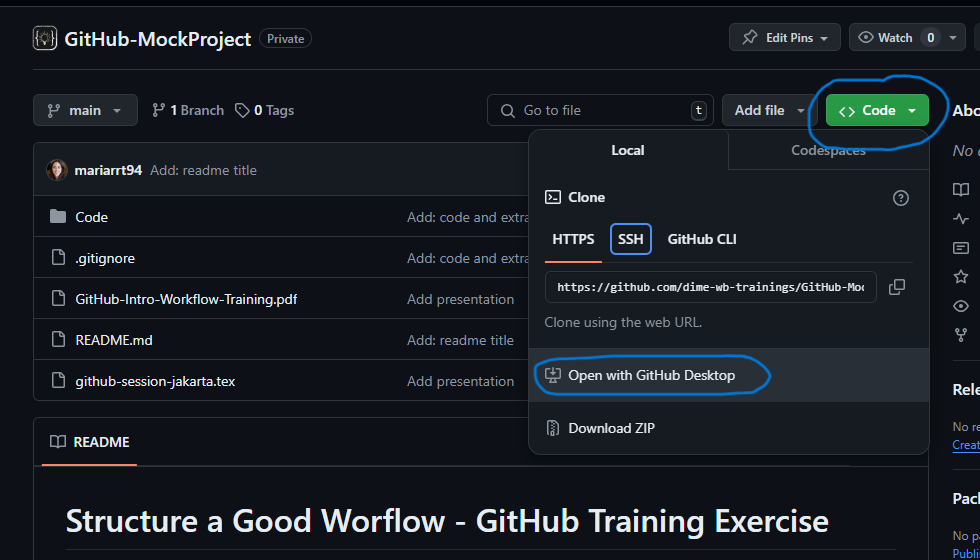
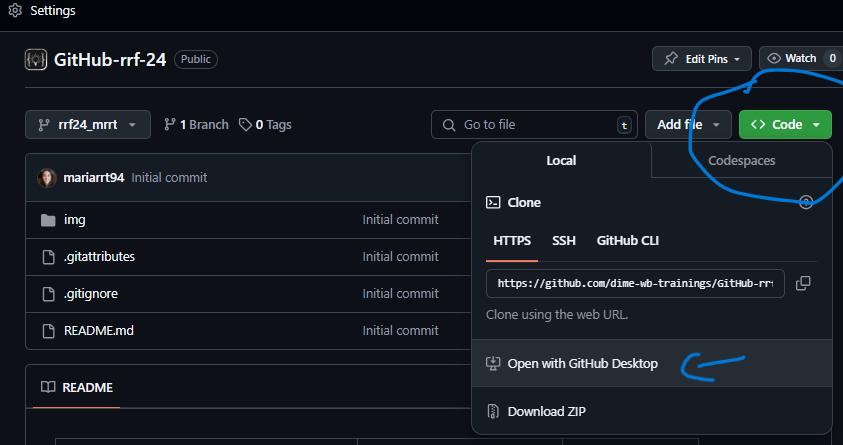
Add: instructions set repo
- Adding instructions in README for the GitHub training
- Adding images that match for the training

diff --git a/README.md b/README.md
@@ -1,7 +1,6 @@
 ---
-title: Reproducible Research Fundamentals 2024"
+title: "Reproducible Research Fundamentals 2024"
 author: "GitHub in a project README"
-output: github_document
 ---
 
 ## Introduction
@@ -12,13 +11,12 @@ This repository will be your workspace for the entire training. Follow the steps
 
 ## Project Overview
 
-In this training, you will learn to:
+In this part of the training, you will learn to:
 
 - Clone a GitHub repository.
 - Create a branch for your work.
 - Make commits and push changes.
 - Follow a structured workflow for reproducibility.
-- By the end, create a reproducibility package in your own branch.
 
 ## Training Day 1: Intro to GitHub
 
@@ -30,7 +28,7 @@ In this training, you will learn to:
 2. Click the green "Code" button and select "Open with GitHub Desktop."
 3. Follow the prompts to clone the repository to your local machine.
 
-![Clone Repository](img/clone.png)
+![](img/clone.png)
 
 You will now have a local copy of the repository to work on.
 
@@ -38,45 +36,46 @@ You will now have a local copy of the repository to work on.
 
 1. After cloning the repository, you need to create a branch where you will work.
 2. Open GitHub Desktop.
-3. Click on the "Current Branch" dropdown and select "New Branch."
-4. Name your branch `rrf24_<your_initials>` and click "Create."
-5. You will now be working on your own branch.
+3. Click on the "Current Branch" dropdown.
+4. Type `rrf24_<your_initials>` and click "Create new branch."
 
-![Create Branch](img/create_branch.png)
+![](img/create_branch.png)
 
-- After you hit new branch, this pop-up will appear:
+- After you click, this pop-up will appear. Select "create branch"
 
-![Create Branch - Pop up](img/create_branch2.png)
+![](img/create_branch2.png)
 
 - After you create a branch, GitHub will move you to that branch, but you can also switch between branches.
 
-![Changing Branches](img/change_branch.png)
+![](img/change_branch.png)
 
-**Important:** This is the branch you will continue working on for the rest of the training. Each task during the week will be committed and pushed in this branch.
+**Important**: You will continue working on your branch(es) for the rest of the training, and it will be reviewed by a peer at the end. In the next GitHub session, we will cover more advanced workflows, but **avoid committing to the main branch**. Only commit to your own branch(es).
 
 ### 3. Make a Minor Change and Commit
 
-1. Open the `README.md` file in your cloned repository.
-2. Add a line at the bottom: `### This is a test commit by <your_name>.`
+0. Make sure your branch is checked out (the tick is on your branch)
+1. Open the `language>README.md` file in your cloned repository in the folder of your language chosen. (Stata or R)
+2. Add a line at the top: `### Reproducible Research Fundamentals 2024 <your_name>.`
 3. Save the file.
 4. Go back to GitHub Desktop, and you will see the change.
-5. Click "Commit to <your_branch>" and then click "Push origin" to push your changes to GitHub.
+5. Add a description and message to your commit `Add: name to README` 
+6. Click "Commit to <your_branch>".
 
-![Commit Changes](img/commit.png)
+![](img/commit.png)
 
 You have now successfully set up your repository, created a branch, and made your first commit!
 
 ### 4. Push/Publish Your Changes
 
-1. After committing, click the "Push" button in GitHub Desktop to publish your changes.
+6. After committing, click the "Push" button in GitHub Desktop to publish your changes on github.com.
 
-![Push Changes](img/push.png)
+![](img/push.png)
 
 ---
 
 ## Key Reminders for the Week
 
-- **You will continue working in your branch for all sessions.**
+- **You will continue working in your branch/branches for all sessions.**
 - Each session will build on the previous one, and by the end, you will create a reproducibility package.
 - Make sure to **commit and push** changes regularly to keep your work up-to-date and trackable.
 
@@ -85,10 +84,11 @@ You have now successfully set up your repository, created a branch, and made you
 ## Overview of Upcoming Sessions
 
 1. **GitHub Workflow**: Explore best practices for GitHub collaboration, branching, and merging.
-2. **Data Processing**: Learn how to organize and clean your data files.
-3. **Preparing Data for Analysis**: Focus on structuring your data for robust analysis.
-4. **Data Analysis**: Conduct analysis using your organized datasets.
-5. **Creating a Reproducibility Package**: Package your work following reproducibility guidelines, including a comprehensive README and proper documentation.
+2. **Setting a reproducible environment**: Start projects clean, share package versions, and ensure reproducibility across systems and time.
+3. **Data Processing**: Learn how to tidy and clean your data.
+4. **Preparing Data for Analysis**: Focus on structuring your data for robust analysis.
+5. **Data Analysis**: Conduct analysis using your organized datasets.
+6. **Creating a Reproducibility Package**: Package your work following reproducibility guidelines, including a comprehensive README and proper documentation.
 
 We look forward to seeing your progress throughout the week!
 
